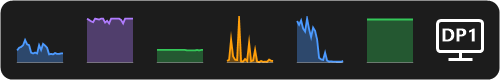
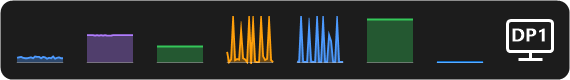
Show the Bluetooth module in the widget style examples

diff --git a/README.md b/README.md
@@ -61,18 +61,18 @@ flyout (the `^` arrow): drag them onto the taskbar, or enable them under
 ### Widget styles
 
 Pick one under right-click → **Widget**. Each row shows, from left to right:
-CPU, GPU, memory, disk, network, battery and display.
+CPU, GPU, memory, disk, network, battery, Bluetooth and display.
 
 | Style | Looks like | Icon shows |
 |-------|------------|------------|
-| **Mini** | <img src="docs/styles/Mini.png" width="330" alt="Mini style"> | Three-letter label above the value |
-| **Bar with letter** | <img src="docs/styles/BarWithLetter.png" width="330" alt="Bar with letter style"> | First letter of the module next to a level bar |
-| **Line chart** | <img src="docs/styles/LineChart.png" width="330" alt="Line chart style"> | Recent history as a small chart |
-| **Bar with symbol** | <img src="docs/styles/BarWithSymbol.png" width="330" alt="Bar with symbol style"> | Module symbol next to a level bar |
-| **Symbol with value** | <img src="docs/styles/SymbolWithValue.png" width="330" alt="Symbol with value style"> | Module symbol above the value |
-| **Segmented meters** | <img src="docs/styles/SegmentedMeters.png" width="330" alt="Segmented meters style"> | Module symbol above a five-step level meter |
-| **Load rings** | <img src="docs/styles/LoadRings.png" width="330" alt="Load rings style"> | Module symbol inside a circular level meter |
-| **Large readings** | <img src="docs/styles/LargeReadings.png" width="330" alt="Large readings style"> | Large value above a color-coded module label |
+| **Mini** | <img src="docs/styles/Mini.png" width="376" alt="Mini style"> | Three-letter label above the value |
+| **Bar with letter** | <img src="docs/styles/BarWithLetter.png" width="376" alt="Bar with letter style"> | First letter of the module next to a level bar |
+| **Line chart** | <img src="docs/styles/LineChart.png" width="376" alt="Line chart style"> | Recent history as a small chart |
+| **Bar with symbol** | <img src="docs/styles/BarWithSymbol.png" width="376" alt="Bar with symbol style"> | Module symbol next to a level bar |
+| **Symbol with value** | <img src="docs/styles/SymbolWithValue.png" width="376" alt="Symbol with value style"> | Module symbol above the value |
+| **Segmented meters** | <img src="docs/styles/SegmentedMeters.png" width="376" alt="Segmented meters style"> | Module symbol above a five-step level meter |
+| **Load rings** | <img src="docs/styles/LoadRings.png" width="376" alt="Load rings style"> | Module symbol inside a circular level meter |
+| **Large readings** | <img src="docs/styles/LargeReadings.png" width="376" alt="Large readings style"> | Large value above a color-coded module label |
 
 The examples are drawn at twice the size of a tray icon on a 150 % display;
 on the taskbar the icons are 16 px (100 %), 24 px (150 %) or 32 px (200 %).
